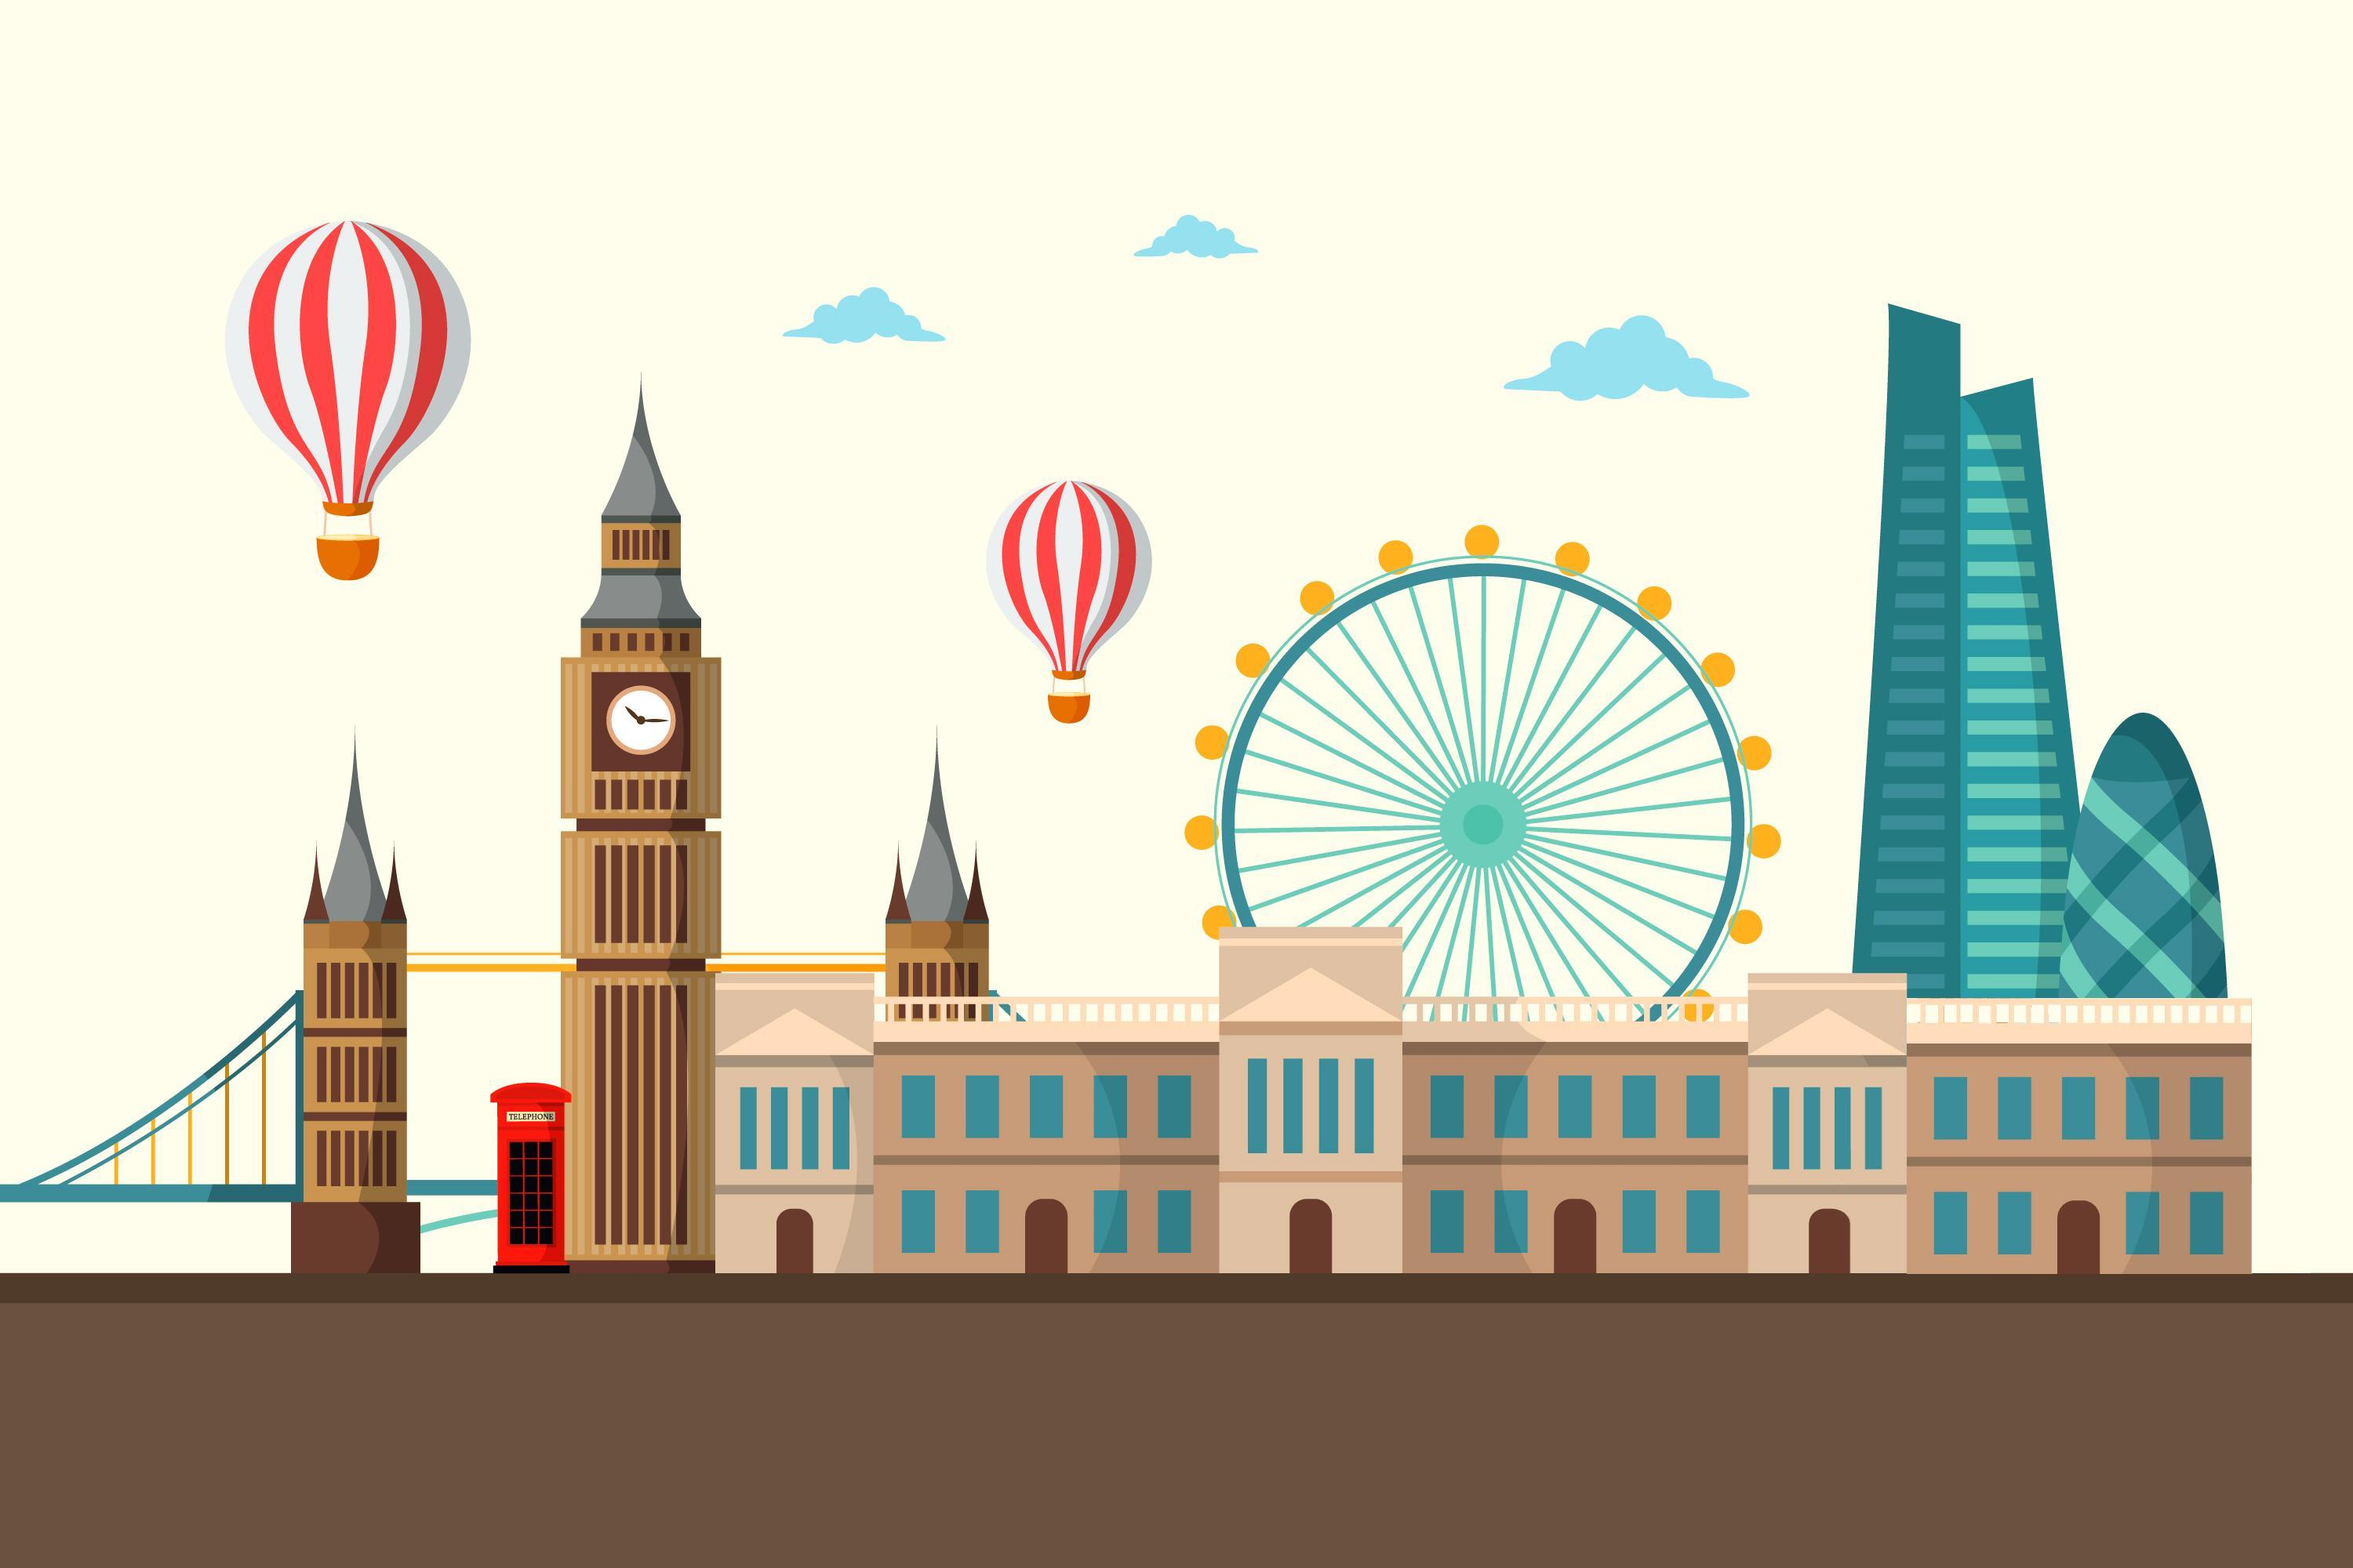
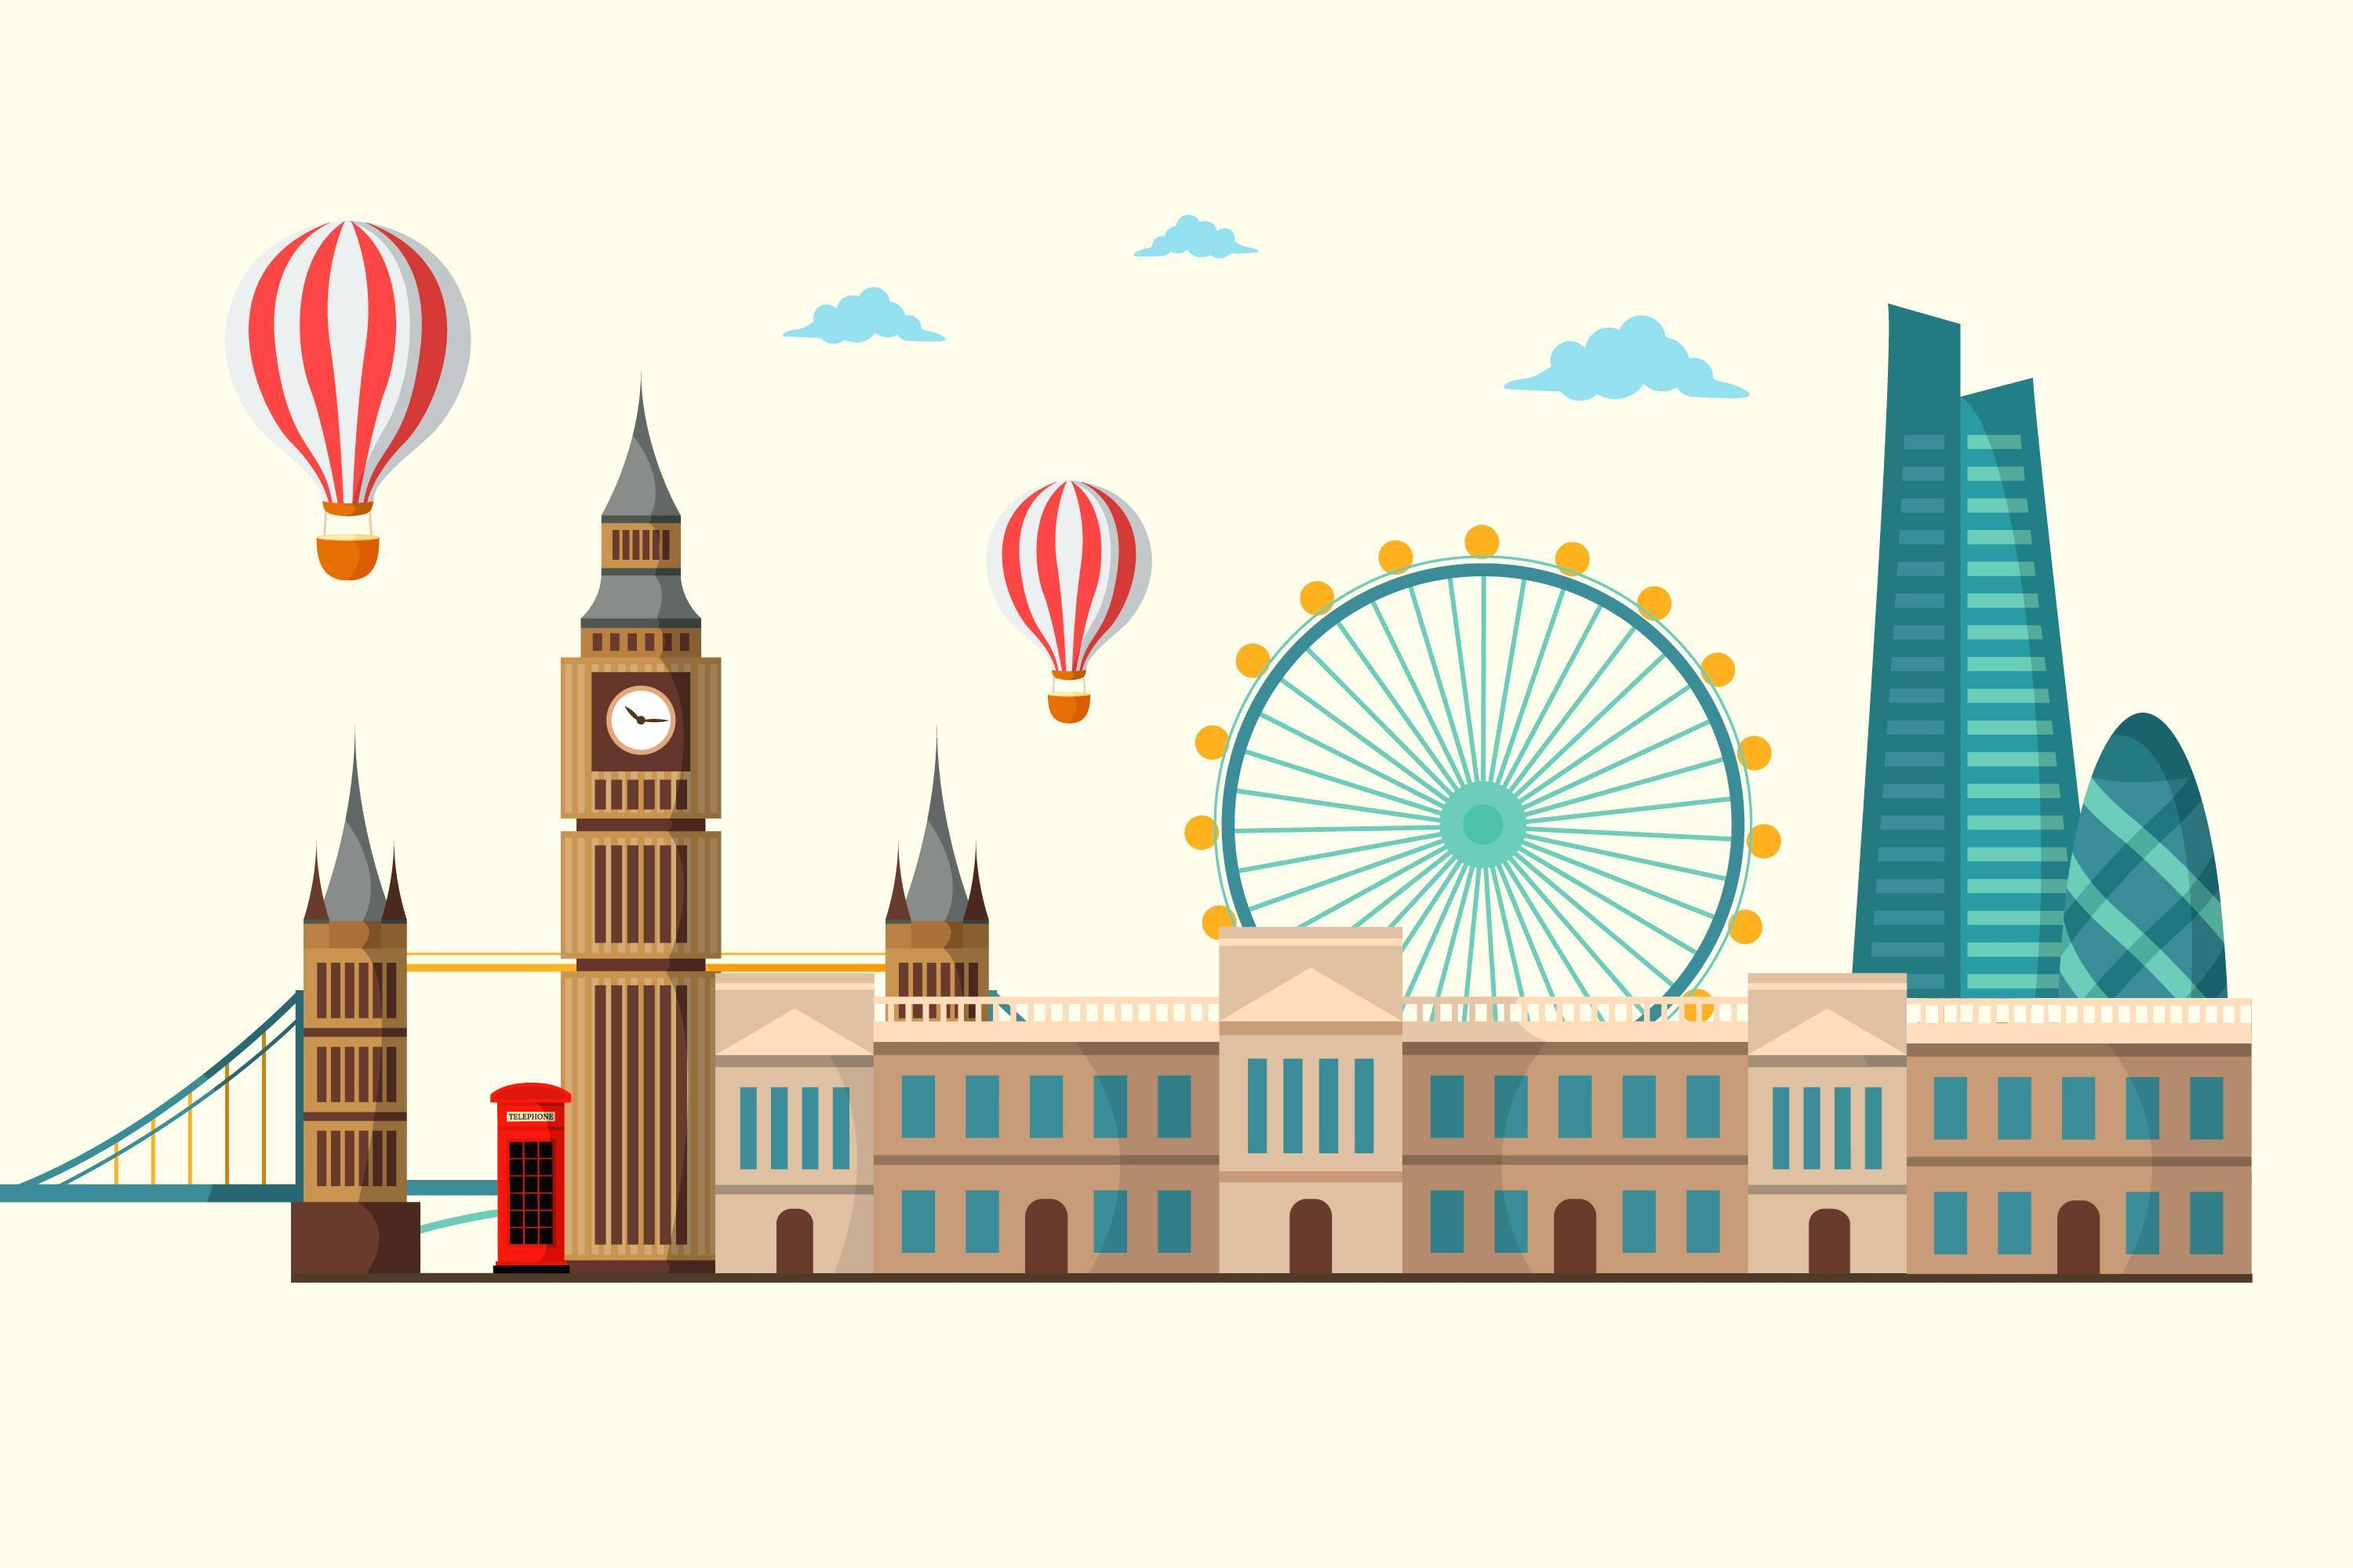
changed landing page

Changed region(s): [[0.0, 0.806, 1.0, 1.0]]

diff --git a/api/static/styles.css b/api/static/styles.css
@@ -1,39 +1,90 @@
 /* Reset some default styles */
-body {
-    display: flex;
-    flex-direction: column;
-    overflow: hidden;
-    position: absolute;
-    width: 100%;
-    height: 100%;
-    margin: 0;
-    padding: 0;
+:root {
+  --bg-colour: #fffeec;
 }
 
-.route-res {
-    all: unset;
+body {
+  min-height: 100vh;
+  margin: 0;
+  padding: 0;
+  /* overflow: hidden; */
 }
+
+#hamburger {
+  position: absolute;
+  top: 20px;
+  right: 20px;
+  height: 5%;
+  cursor: pointer;
+}
+
+
 
 /* index page background image */
-.bg-img {
-  position: absolute;
+.img-container {
+  position: relative;
   height: 100vh;
-  z-index: -1;
-  align-self: center;
-}
-
-.image-container {
+  background-color: var(--bg-colour);
   display: flex;
   justify-content: center;
   align-items: center;
+  z-index: -3;
+}
+
+.bg-img {
+  position: absolute;
+  height: 80%;
+  z-index: -2;
+}
+
+.bg-bus {
+  position: absolute;
+  height: 45%;
+  bottom: 10%;
+  left: 10%;
+  z-index: -1;
+}
+
+.fade-in {
+  opacity: 0;
+  animation: fadeIn 1.5s ease-in-out forwards;
+  animation-delay: 1s;
+}
+
+@keyframes fadeIn {
+  0% {
+    opacity: 0;
+  }
+  100% {
+    opacity: 1;
+  }
+}
+
+.left-in {
+  left: -25%;
+  animation: leftIn 2s ease-in-out forwards;
+}
+
+@keyframes leftIn {
+  from {
+    left: -25%;
+  }
+  to {
+    left: 10%;
+  }
+}
+
+/* for results page */
+.route-res {
+  all: unset;
 }
 
 /* Center align the content in the body */
 .container {
-    display: flex;
-    flex-direction: column;
-    align-items: center;
-    text-align: center;
+  display: flex;
+  flex-direction: column;
+  align-items: center;
+  text-align: center;
 }
 
 /* .subcontainer{
@@ -44,59 +95,46 @@ body {
 
 /* Style the header */
 header {
-    position: relative;
-    top: 0;
-    background-color: #333;
-    display: flex;
-    color: #fff;
-    justify-content: space-between;
-    align-items: center;
-    text-align: center;
-    padding: 10px;
+  position: relative;
+  top: 0;
+  background-color: #333;
+  display: flex;
+  color: #fff;
+  justify-content: space-between;
+  align-items: center;
+  text-align: center;
+  padding: 10px;
 }
 
 /* Style the h1 and p elements */
 h1 {
-    color: #333;
-    font-size: 24px;
+  color: #333;
+  font-size: 24px;
 }
 
 p {
-    font-size: 18px;
-    color: #555;
+  font-size: 18px;
+  color: #555;
 }
 
 /* Style the list items */
 ul {
-    list-style: none;
+  list-style: none;
 }
 
-.fade-in {
-    opacity: 0;
-    animation: fadeIn 1.5s ease-in-out forwards;
-  }
-  
-  @keyframes fadeIn {
-    from {
-      opacity: 0;
-    }
-    to {
-      opacity: 1;
-    }
-  }
-  
-  h1, p {
-    margin: 0;
-  }
+h1,
+p {
+  margin: 0;
+}
 
 /* Style the footer */
 footer {
-    position: relative;
-    bottom: 0;
-    width: 100%; 
-    justify-content: center;
-    background-color: #333;
-    color: #fff;
-    text-align: center;
-    padding: 10px;
+  position: relative;
+  bottom: 0;
+  width: 100%;
+  justify-content: center;
+  background-color: #333;
+  color: #fff;
+  text-align: center;
+  padding: 10px;
 }

diff --git a/api/templates/layout.html b/api/templates/layout.html
@@ -1,17 +1,23 @@
 <!DOCTYPE html>
 <html lang="en">
-
-<head>
-    <meta charset="UTF-8">
-    <meta http-equiv="X-UA-Compatible" content="IE=edge">
-    <meta name="viewport" content="width=device-width, initial-scale=1.0">
-    <link rel="stylesheet" href="{{ url_for('static', filename = 'styles.css')}}">
-    <link href="https://cdn.jsdelivr.net/npm/bootstrap@5.3.2/dist/css/bootstrap.min.css" rel="stylesheet"
-        integrity="sha384-T3c6CoIi6uLrA9TneNEoa7RxnatzjcDSCmG1MXxSR1GAsXEV/Dwwykc2MPK8M2HN" crossorigin="anonymous">
+  <head>
+    <meta charset="UTF-8" />
+    <meta http-equiv="X-UA-Compatible" content="IE=edge" />
+    <meta name="viewport" content="width=device-width, initial-scale=1.0" />
+    <link
+      rel="stylesheet"
+      href="{{ url_for('static', filename = 'styles.css')}}"
+    />
+    <link
+      href="https://cdn.jsdelivr.net/npm/bootstrap@5.3.2/dist/css/bootstrap.min.css"
+      rel="stylesheet"
+      integrity="sha384-T3c6CoIi6uLrA9TneNEoa7RxnatzjcDSCmG1MXxSR1GAsXEV/Dwwykc2MPK8M2HN"
+      crossorigin="anonymous"
+    />
     <title>{% block title%} WhereTo {% endblock %}</title>
-</head>
+  </head>
 
-<body>
+  <body>
     <!-- <header>
         <div class="header-left"> LOGO </div>
         <h2><a style="color: white; text-decoration:none" href="/">WhereTo</a></h2>
@@ -21,13 +27,13 @@
             <a href="#">More</a>
         </div>
     </header> -->
-    
+
+    <img id="hamburger" src="/static/hamburger.svg" alt="hamburger icon" />
+
     {% block body %}{% endblock %}
 
     <!-- <footer>
         <div>&copy;</div>
     </footer> -->
-
-</body>
-
+  </body>
 </html>

diff --git a/api/templates/index.html b/api/templates/index.html
@@ -1,8 +1,10 @@
 {% extends "layout.html" %}
 
 {% block body %}
-    <div ><img src="/static/bg.jpg" alt="background image" class="bg-img"></div>
-    <!-- <div class="bg-img"><img src="/static/bg.jpg" alt="background image"></div> -->
+    <div class="img-container">
+        <img class="bg-img fade-in" src="/static/bg.jpg" alt="background art">
+        <img class="bg-bus left-in" src="/static/bus.gif" alt="bus">
+    
     <div class="container">
         <div style="height: 30px;"></div>
         <small>Did you find yourself asking out loud</small>
@@ -10,7 +12,6 @@
         <h3>Enter your postcode to know!</h3>
         <div style="height: 30px;"></div>
         <div class="subcontainer fade-in">
-
             <form class="form-inline" action = "/attractions" method = "post">
                 <div class="form-group mx-sm-3 mb-2">
                     <input type="text" class="form-control mx-sm-1"
@@ -21,9 +22,7 @@
             </form>
 
         </div>
-        <br><br>
-
-
     </div>
+</div>
 
 {% endblock %}
